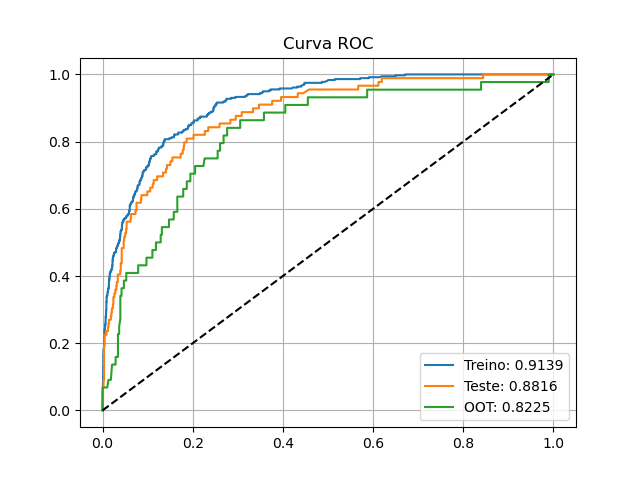
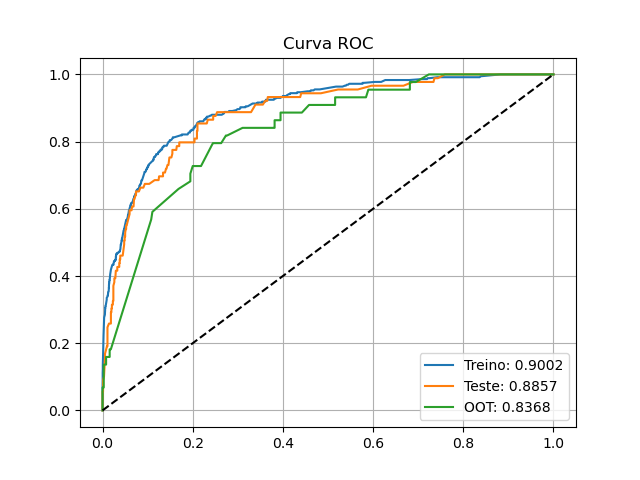
Adding makefile

Changed region(s): [[0.1562, 0.125, 0.875, 0.8125], [0.8438, 0.75, 0.875, 0.8125], [0.8125, 0.8438, 0.875, 0.875]]

diff --git a/src/analytics/train.py b/src/analytics/train.py
@@ -132,12 +132,35 @@ onehot = encoding.OneHotEncoder(variables=['descLifeCycleAtual','descLifeCycleD2
 #     min_samples_leaf=50
 # )
 
-model = ensemble.RandomForestClassifier(
-    random_state=42,
-    n_estimators=150,
-    n_jobs=1,
-    min_samples_leaf=50
-    )
+# model = ensemble.RandomForestClassifier(
+#     random_state=42,
+#     n_estimators=150,
+#     n_jobs=1,
+#     min_samples_leaf=50
+#     )
+
+model = ensemble.AdaBoostClassifier(
+    random_state=42
+)
+
+
+params = {
+        'n_estimators':[100,200,300,400,500,1000],
+        'learning_rate':[0.001, 0.01, 0.05, 0.1, 0.2, 0.5, 0.9, 0.99]
+        # 'min_samples_leaf':[10,20,30,50,75,100]
+
+    }
+
+
+grid = model_selection.GridSearchCV(
+    estimator=model,
+    param_grid=params,
+    cv=3,
+    scoring='roc_auc',
+    refit=True,
+    verbose=3,
+    n_jobs=-1
+)
 
 
 model_pipeline = pipeline.Pipeline(steps=[
@@ -146,11 +169,9 @@ model_pipeline = pipeline.Pipeline(steps=[
         ("Imputacao de Nao-Usuario", input_new),
         ("Imputacao de 1000", input_1000),
         ("OneHot Encoding", onehot),
-        ("Algoritmo", model),
+        ("Algoritmo", grid),
     ])
 
-# %%
-model_pipeline
 
 # %%
 with mlflow.start_run() as r:
@@ -230,12 +251,3 @@ with mlflow.start_run() as r:
     
     mlflow.log_artifact('curva_roc.png')
 
-
-# %%
-features_name = model_pipeline[:-1].transform(X_train.head(1)).columns
-
-features_importance = pd.Series(model_pipeline[-1].feature_importances_, index=features_name)
-features_importance.sort_values(ascending=False)
-
-
-# %%

diff --git a/src/analytics/pipeline_analytics.py b/src/analytics/pipeline_analytics.py
@@ -1,0 +1,64 @@
+
+
+
+# %%
+from exec_query import exec_query
+import datetime
+
+
+# %%
+now = datetime.datetime.now().strftime('%Y-%m-%d')
+
+# %%
+steps = [
+    {
+        'table': 'life_cycle', 
+        'db_origin':'loyalty-system', 
+        'db_target':'analytical', 
+        'dt_start':now, 
+        'dt_stop':now, 
+        'monthly':False,
+        'mode':'append'
+    },
+        {
+        'table':'fs_transacional',
+        'db_origin':'loyalty-system',
+        'db_target':'analytical',
+        'dt_start':now,
+        'dt_stop':now,
+        'monthly':False,
+        'mode':'append',
+    },
+    {
+        'table':'fs_education',
+        'db_origin':'education-platform',
+        'db_target':'analytical',
+        'dt_start':now,
+        'dt_stop':now,
+        'monthly':False,
+        'mode':'append',
+    },
+    {
+        'table':'fs_life_cycle',
+        'db_origin':'analytical',
+        'db_target':'analytical',
+        'dt_start':now,
+        'dt_stop':now,
+        'monthly':False,
+        'mode':'append',
+    },
+    {
+        'table':'fs_all',
+        'db_origin':'analytical',
+        'db_target':'analytical',
+        'dt_start':now,
+        'dt_stop':now,
+        'monthly':False,
+        'mode':'replace',
+    },
+]
+
+# %%
+for s in steps:
+    exec_query(**s)
+# %%

diff --git a/src/analytics/exec_query.py b/src/analytics/exec_query.py
@@ -32,7 +32,7 @@ def data_ranges(start, stop, monthly=False):
     return dates
 
 
-def exec_query(table, db_origin, db_target, dt_start, dt_stop, monthly):
+def exec_query(table, db_origin, db_target, dt_start, dt_stop, monthly, mode='append'):
 
     engine_transacional = sqlalchemy.create_engine(f"sqlite:///../../data/{db_origin}/database.db")
     engine_analytical = sqlalchemy.create_engine(f"sqlite:///../../data/{db_target}/database.db")
@@ -54,7 +54,7 @@ def exec_query(table, db_origin, db_target, dt_start, dt_stop, monthly):
         query_import = query.format(date=i)
 
         df = pd.read_sql(query_import, engine_transacional)
-        df.to_sql(table, engine_analytical, index=False, if_exists='append')
+        df.to_sql(table, engine_analytical, index=False, if_exists=mode)
 
 
 # %%
@@ -70,9 +70,9 @@ def main():
     parser.add_argument('--start', type=str, default=now)
     parser.add_argument('--stop', type=str, default=now)
     parser.add_argument('--monthly', action='store_true')
-
-
+    parser.add_argument("--mode", choices=['append', 'replace'])
     args = parser.parse_args()
+
 
     exec_query(args.table, args.db_origin, args.db_target, args.start, args.stop, args.monthly)
 

diff --git a/src/analytics/predict_fiel.py b/src/analytics/predict_fiel.py
@@ -7,39 +7,32 @@ import mlflow
 
 # %%
 conn = sqlalchemy.create_engine("sqlite:///../../data/analytical/database.db")
-
-data = pd.read_sql('SELECT * FROM abt_fiel', conn)
-data.head()
-
-# %%
 mlflow.set_tracking_uri('http://127.0.0.1:5000')
 
 
 # %%
-versions = mlflow.search_model_versions(filter_string='name="Fiel"')
-last_version = max([i.version for i in versions])
+# versions = mlflow.search_model_versions(filter_string='name="Fiel"')
+# last_version = max([i.version for i in versions])
 
 # %%
-last_version
-
-# %%
+last_version = '4'
 model = mlflow.sklearn.load_model(f'models:///Fiel/{last_version}')
  
 
 # %%
-model.feature_names_in_
+data = pd.read_sql('SELECT * FROM fs_all', conn)
+data.head()
+
 
 # %%
 predict = model.predict_proba(
     data[model.feature_names_in_]
 )[:,1]
 
-predict
+data['predictFiel'] = predict
+
+
 # %%
-data['Predict'] = predict
-
-# %%
-data.head().sort_values(by='Predict', ascending=False)
-
-
+data = data[['dtRef', 'IdCliente', 'predictFiel']]
+data.to_sql('score_fiel', conn, index=False, if_exists='replace')
 # %%

diff --git a/src/engineering/get_data.py b/src/engineering/get_data.py
@@ -1,0 +1,24 @@
+
+# %%
+import os
+from dotenv import load_dotenv
+import shutil
+
+load_dotenv('../../.env')
+
+from kaggle import api
+
+
+datasets = [
+    'teocalvo/teomewhy-loyalty-system',
+    'teocalvo/teomewhy-education-platform',
+]
+
+for dataset in datasets:
+
+    
+    dataset_name = dataset.split('/teomewhy-')[-1]
+    path = f'../../data/{dataset_name}/database.db'
+
+    api.dataset_download_file(f'teocalvo/teomewhy-{dataset_name}', 'database.db')
+    shutil.move('database.db', path)
